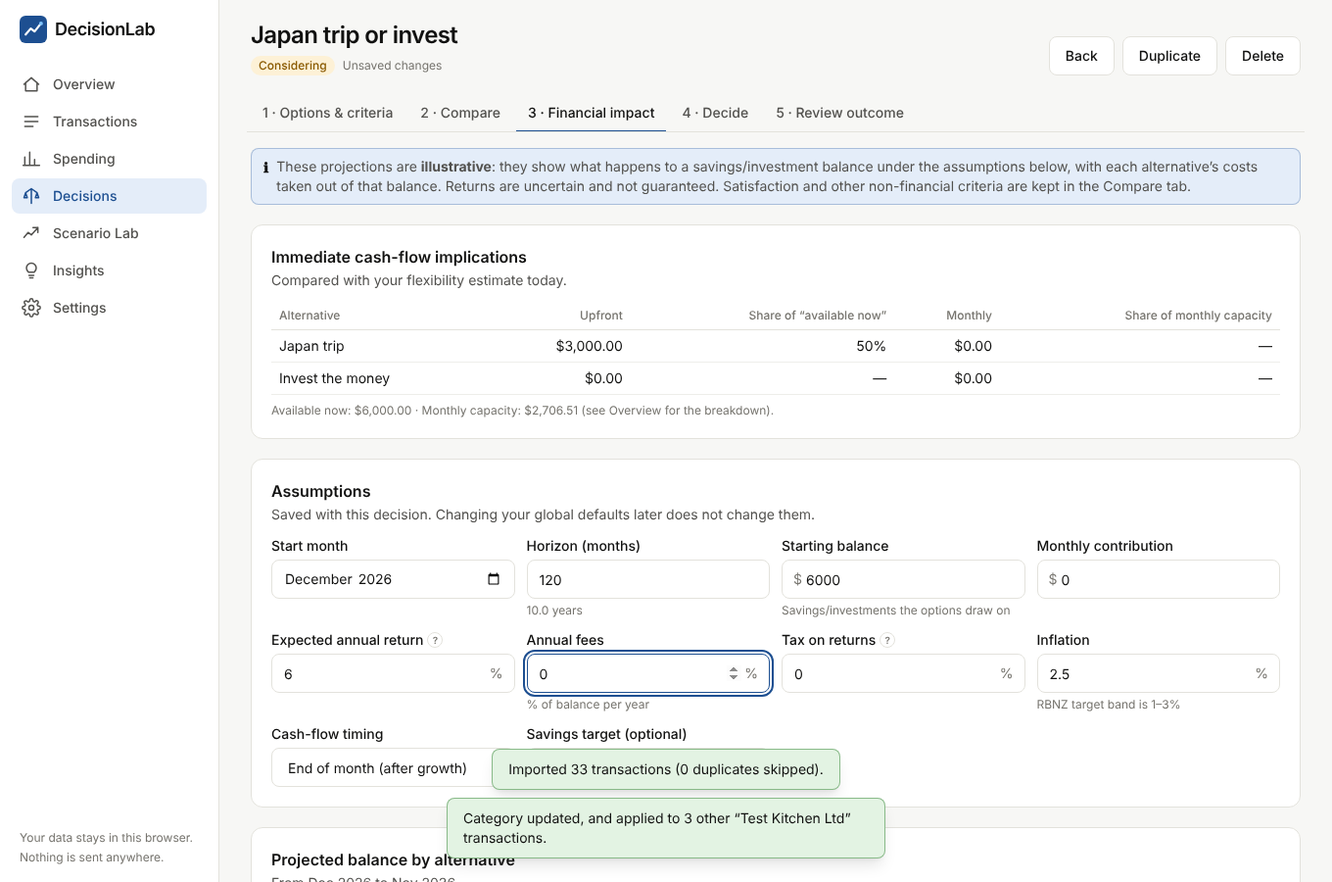
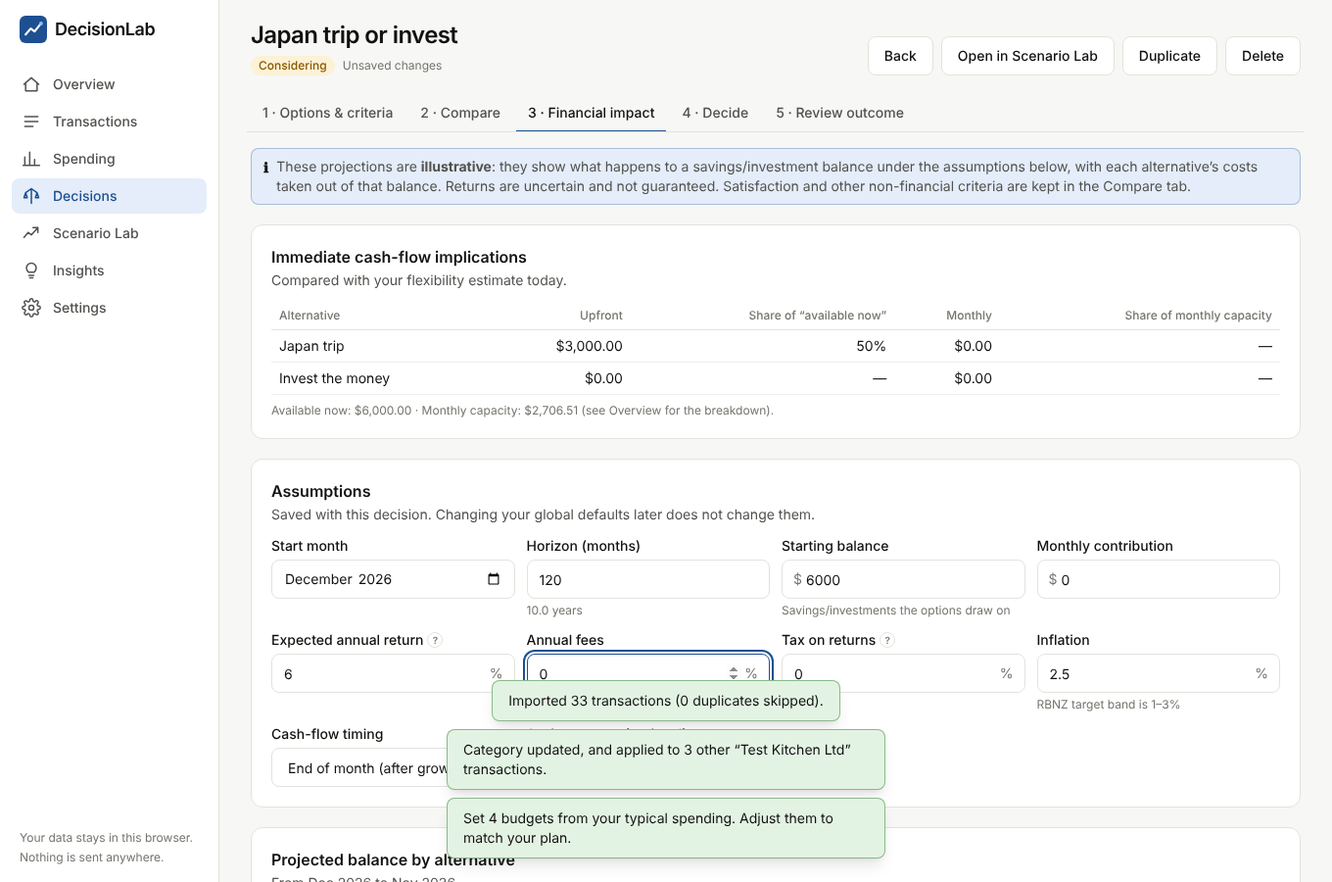
Extend end-to-end test and document milestone 3
- E2E covers budgets, AHP weighting and the Scenario Lab/decision round trip (20 steps)
- Docs: budgets, AHP, total-cost definition, goals, schema v3, reminders privacy note
- Backlog: next milestone "Real-world data"

Changed region(s): [[0.3088, 0.7467, 0.6794, 0.9644], [0.7103, 0.0622, 0.8338, 0.0933], [0.6485, 0.0622, 0.6794, 0.0933]]

diff --git a/src/ui/definitions.ts b/src/ui/definitions.ts
@@ -25,5 +25,5 @@ export const DEFINITIONS = {
   mcDifference:
     'For each simulated path, both alternatives experience the same market returns, so the difference isolates the effect of the decision itself. Percentiles are taken across paths.',
   budget:
-    'Your planned monthly spending per category (entered by you). Actual spending is net of refunds and counts split parts in their own categories. In the current month, “ahead of pace” means spending is more than 10% above an even spread across the month.',
+    'Your planned monthly spending per category (entered by you). Actual spending is net of refunds and counts split parts in their own categories. In the current month, “ahead of pace” means spending is more than 10% above an even spread across the month. Categories paid as one bill (rent, power) can look ahead of pace early in the month.',
 } as const;

diff --git a/README.md b/README.md
@@ -8,8 +8,8 @@ DecisionLab combines three connected tools:
 
 | Module | What it does |
 | --- | --- |
-| **SpendLens** | Import bank CSVs, categorise transactions with rules, analyse cash flow, spending, recurring payments and how much you can realistically spend. |
-| **ChoiceLedger** | Structure decisions: alternatives, weighted criteria, a transparent score, sensitivity to your weights, a frozen record of your reasoning, and later outcome reviews. |
+| **SpendLens** | Import bank CSVs, categorise transactions with rules, analyse cash flow, spending, recurring payments and budgets, and estimate how much you can realistically spend. |
+| **ChoiceLedger** | Structure decisions: alternatives, weighted criteria (direct or by pairwise comparison), a transparent score, a cost-vs-preference chart, sensitivity to your weights, a frozen record of your reasoning, and later outcome reviews. |
 | **FutureRegret** | Deterministic projections (compound growth, contributions, fees, tax, inflation) and optional Monte Carlo ranges to compare the financial consequences of alternatives, with sensitivity analysis. |
 
 All data stays in your browser (IndexedDB). There is no server, account, analytics or tracking.
@@ -34,7 +34,7 @@ Open the printed URL (usually http://localhost:5173). On first launch, either **
 
 | Command | Purpose |
 | --- | --- |
-| `npm test` | Unit and data-layer tests (Vitest, 132 tests) |
+| `npm test` | Unit and data-layer tests (Vitest, 147 tests) |
 | `npm run typecheck` | TypeScript strict type check |
 | `npm run build` | Type check + production build into `dist/` |
 | `npm run preview` | Serve the production build locally (enables offline/PWA support) |
@@ -46,12 +46,13 @@ The production build is a static site: you can serve `dist/` from any static hos
 
 1. **Import transactions** (Transactions → Import CSV). Choose the file and account, confirm the suggested column mapping (date format, signed amount or debit/credit columns, description columns), review the preview (new / duplicate / error rows), then import. Every import can be undone from *Import history*. The original CSV values are kept on each transaction for auditing.
 2. **Categorise.** Default rules cover common NZ merchants. Change a category in the table and, with “apply to the same merchant” ticked, DecisionLab remembers it. Manual choices are never overwritten. Manage rules (order, enable/disable, regex) under *Categorisation rules*. Mark transfers between your accounts as **Transfers** so they are not counted as spending or income. Open a transaction to **split** it across categories, add notes, or link it to a decision; use **Add transaction** for cash.
-3. **Analyse** (Spending). Monthly cash flow, spending by category, trends, period comparisons (a month vs the previous three, or any two date ranges), recurring payments and unusually large transactions, all from complete calendar months.
-4. **Set your plan** (Settings). Enter account balances, an emergency reserve, savings commitment, upcoming expenses and goals. The Overview then shows **money available now** and **monthly discretionary capacity**, with each line marked *Known*, *Estimated* or *Manual*.
-5. **Make a decision** (Decisions → New decision). Add alternatives with upfront/ongoing costs, criteria with weights, and scores. *Compare* shows the transparent weighted score and whether the ranking is fragile. *Financial impact* projects each alternative’s effect on your savings, with opportunity cost, a sensitivity (tornado) analysis and optional **Monte Carlo** ranges for uncertain returns. *Decide* records your choice, reasoning, predicted satisfaction and review date as an immutable snapshot.
+3. **Analyse** (Spending). Budgets (start from your typical spending, then see each month whether you are on pace), monthly cash flow, spending by category, trends, period comparisons (a month vs the previous three, or any two date ranges), recurring payments and unusually large transactions, all from complete calendar months.
+4. **Set your plan** (Settings). Enter account balances, an emergency reserve, savings commitment, upcoming expenses and goals (a goal can track an account's balance). The Overview then shows **money available now** and **monthly discretionary capacity**, with each line marked *Known*, *Estimated* or *Manual*.
+5. **Make a decision** (Decisions → New decision). Add alternatives with upfront/ongoing costs, criteria with weights (or *Compare in pairs…* to derive them), and scores. *Compare* shows the transparent weighted score and whether the ranking is fragile. *Financial impact* projects each alternative’s effect on your savings, with opportunity cost, a sensitivity (tornado) analysis and optional **Monte Carlo** ranges for uncertain returns. *Decide* records your choice, reasoning, predicted satisfaction and review date as an immutable snapshot.
 6. **Review outcomes** when the review date arrives (shown on the Overview). Link the real payments so the actual cost is measured from your data, then record what actually happened; DecisionLab compares prediction with reality. *Insights* summarises calibration across decisions — always with sample sizes.
-7. **Explore** freely in the *Scenario Lab* (spend vs invest, buy now vs later, savings-rate changes, recurring costs, working fewer hours).
-8. **Back up** regularly (Settings → Data & privacy). Encrypted backups use AES-256-GCM with a passphrase.
+7. **Explore** freely in the *Scenario Lab* (spend vs invest, buy now vs later, savings-rate changes, recurring costs, working fewer hours). Turn a scenario into a decision with one click, or open a decision's alternatives in the Lab. Use a goal as the target to see whether it is reached in time.
+8. **Reminders**: the Decisions menu shows how many reviews are due; optionally turn on a daily reminder notification (Settings → Reminders & appearance).
+9. **Back up** regularly (Settings → Data & privacy). Encrypted backups use AES-256-GCM with a passphrase.
 
 ## Screenshots
 

diff --git a/docs/DATA_MODEL.md b/docs/DATA_MODEL.md
@@ -1,6 +1,6 @@
 # Data model
 
-Source of truth: [`src/domain/types.ts`](../src/domain/types.ts). Storage: IndexedDB database `decisionlab`, defined in [`src/data/db.ts`](../src/data/db.ts) (schema version 2).
+Source of truth: [`src/domain/types.ts`](../src/domain/types.ts). Storage: IndexedDB database `decisionlab`, defined in [`src/data/db.ts`](../src/data/db.ts) (schema version 3).
 
 ## Conventions
 
@@ -19,6 +19,9 @@ erDiagram
   CATEGORY ||--o{ TRANSACTION : classifies
   CATEGORY ||--o{ CATEGORY_RULE : "target of"
   CATEGORY ||--o{ MERCHANT_MEMORY : "remembered as"
+  CATEGORY ||--o| BUDGET : "planned by"
+  GOAL }o--o| ACCOUNT : "tracked by"
+  TRANSACTION }o--o| DECISION : "actual cost of"
   DECISION ||--|{ DECISION_OPTION : has
   DECISION ||--o{ CRITERION : has
   DECISION ||--o| DECISION_SNAPSHOT : "frozen at choice"
@@ -37,10 +40,11 @@ erDiagram
 | `merchantMemory` | `merchant` | `MerchantMemory` | Learned from manual corrections; outranks rules |
 | `imports` | `id`, `accountId`, `importedAt` | `ImportBatch` | Mapping used, counts, date range; `status: active/undone` (kept after undo for history) |
 | `importProfiles` | `id` | `ImportProfile` | Saved CSV column mappings |
-| `goals` | `id` | `Goal` | `earmarked` amounts are excluded from available funds |
+| `goals` | `id` | `Goal` | `earmarked` amounts are excluded from available funds; optional `accountId` uses that account's balance as the saved amount |
 | `decisions` | `id`, `status`, `date`, `reviewDate`, `updatedAt` | `Decision` | Embeds options, criteria, score matrix, its own `ProjectionAssumptions`, `snapshot`, `snapshotHistory`, `review` |
 | `scenarioSets` | `id`, `updatedAt` | `ScenarioSet` | Base assumptions + variants (one-off and recurring flows, contribution change) + optional `monteCarlo` config |
-| `settings` | `key` | key–value | `financialProfile`, `defaultAssumptions`, `seeded`, `dismissedRecurring` |
+| `settings` | `key` | key–value | `financialProfile`, `defaultAssumptions`, `seeded`, `dismissedRecurring`, `reviewReminders` |
+| `budgets` | `categoryId` | `Budget` | `monthlyAmount` (cents) per expense category |
 
 UI-only preferences (theme) are kept in `localStorage`, never financial data.
 
@@ -63,9 +67,10 @@ UI-only preferences (theme) are kept in `localStorage`, never financial data.
 
 ### Decision
 
-- `options[]`: `name`, `upfrontCost` (cents, positive = cost), `costMonth`, `monthlyCost` (may be negative for savings), `monthlyCostMonths`, `expectedBenefits`, `risks`.
+- `options[]`: `name`, `upfrontCost` (cents, positive = cost), `costMonth`, `monthlyCost` (may be negative for savings), `monthlyCostMonths`, `expectedBenefits`, `risks`, optional `extraFlows` (one-offs, recurring flows and contribution change, e.g. from a Scenario Lab variant).
 - `criteria[]`: `name`, `type` (`rating` 0–10 or `measure`), `direction` (higher/lower is better), `weight` (relative), `unit`.
 - `scores[optionId][criterionId]`: number or null.
+- `pairwise?`: AHP judgements keyed `"criterionA|criterionB"` (value of A relative to B, 1/9 … 9).
 - `assumptions`: the decision's own copy of projection assumptions (not a reference to global defaults).
 - `monteCarlo?`: `{enabled, annualVolatility, runs, seed}` for the optional uncertainty simulation.
 - `selectedOptionId`, `reasoning`, `predictedSatisfaction` (1–10), `confidence` (1–5), `reviewDate`.
@@ -77,11 +82,11 @@ Status lifecycle: `considering → decided → completed (optional) → reviewed
 
 ### ProjectionAssumptions
 
-`startMonth`, `horizonMonths`, `initialBalance`, `monthlyContribution`, `timing` (`start`/`end`), `annualReturn`, `annualFee`, `taxRateOnReturns`, `annualInflation`, optional `targetAmount`. See [CALCULATIONS.md](CALCULATIONS.md).
+`startMonth`, `horizonMonths`, `initialBalance`, `monthlyContribution`, `timing` (`start`/`end`), `annualReturn`, `annualFee`, `taxRateOnReturns`, `annualInflation`, optional `targetAmount` and `goalId`. See [CALCULATIONS.md](CALCULATIONS.md).
 
 ## Backups
 
-Format `decisionlab-backup` version 2 (version 1 files are migrated on restore): `{ format, version, exportedAt, data: { <table>: rows[] } }`. Encrypted backups (`decisionlab-encrypted-backup`) wrap the same JSON: `{ kdf: {PBKDF2, SHA-256, iterations, salt}, cipher: {AES-GCM, iv}, ciphertext }` (base64).
+Format `decisionlab-backup` version 3 (versions 1 and 2 are migrated on restore): `{ format, version, exportedAt, data: { <table>: rows[] } }`. Encrypted backups (`decisionlab-encrypted-backup`) wrap the same JSON: `{ kdf: {PBKDF2, SHA-256, iterations, salt}, cipher: {AES-GCM, iv}, ciphertext }` (base64).
 
 Restore: parse → `migrateBackup` (rejects unknown/newer formats) → zod validation of every row → replace all tables in a single IndexedDB transaction.
 
@@ -91,6 +96,7 @@ Restore: parse → `migrateBackup` (rejects unknown/newer formats) → zod valid
 | --- | --- | --- |
 | 1 | Initial schema | — |
 | 2 | `transactions.decisionId` index; optional `splits`, `decisionId`, `monteCarlo`, `actualCostSource` fields | None needed (new fields are optional). Backups v1 → v2 unchanged. |
+| 3 | New `budgets` table; optional `pairwise`, `extraFlows`, `goalId`, goal `accountId` | None needed. Backups v2 → v3: empty budgets table. |
 
 ## Migrations
 

diff --git a/docs/CALCULATIONS.md b/docs/CALCULATIONS.md
@@ -54,6 +54,15 @@ Group by (merchant key, direction); same-day payments are summed. Requires ≥ 3
 
 Provenance: balances, reserve, upcoming expenses, goals, commitment and overrides are *Manual*; income/obligation/essential estimates are *Estimated*.
 
+## Budgets (`src/engine/budgets.ts`)
+
+- A budget is a manual monthly amount for an **expense** category (transfers, savings and income cannot be budgeted).
+- Actual = net spending in that category for the calendar month (refunds reduce it; split parts count in their own categories).
+- Elapsed share = day of month ÷ days in month for the current month; 1 for past months.
+- Status: **over** if actual > budget; **ahead of pace** if, in the current month, actual > budget × elapsed × 1.1; otherwise **on track**. Bills paid once a month can look ahead of pace early in the month.
+- Suggested budget = median monthly net spending over the last three complete months, rounded **up** to the next $10.
+- In the flexibility estimate, *planned in discretionary budgets* = Σ budgets of non-essential categories; *not yet allocated* = monthly capacity − that sum (a warning appears if negative). Budgets do not change the capacity estimate itself.
+
 ## Decision scoring (`src/engine/scoring.ts`)
 
 1. Weights normalised: wᵢ = rawᵢ / Σ raw (all zero → equal weights).
@@ -64,6 +73,8 @@ Provenance: balances, reserve, upcoming expenses, goals, commitment and override
 4. **Pareto efficiency**: an option is *dominated* if another has a score ≥ and total cost ≤ with at least one strict.
 
 **Weight sensitivity** — for each criterion, its weight share w is varied over [0,1] (steps of 0.005) with other weights scaled proportionally by (1 − w). Reported: the stable range where the leader stays first and the smallest shift that changes the leader.
+**Pairwise weights (AHP, `src/engine/ahp.ts`)** — optional. For each pair of criteria the user gives a Saaty judgement (1 = equal … 9 = extremely more important; reciprocal for the reverse). Weights = normalised geometric means of the rows of the reciprocal matrix. Consistency: λmax = mean((A·w)ᵢ / wᵢ), CI = (λmax − n)/(n − 1), CR = CI / RI(n) with Saaty's random indices (n = 3: 0.58, 4: 0.90, 5: 1.12, …). CR ≤ 0.10 is acceptable; above it the UI asks the user to revisit contradictory judgements. Applied weights are stored as percentages (one decimal), and the judgements are kept on the decision.
+
 **Fragile ranking** warning when the top-two margin is < 5 points or any single-weight shift ≤ 15 percentage points changes the leader. The leader under equal weights is also compared.
 
 With two options, min–max normalisation of a measured criterion always yields 0 vs 1; the UI warns about this.
@@ -82,7 +93,11 @@ Monthly time step; month 0 = `startMonth`; balances are reported at the **end** 
 - **Tax** is a simplification: a flat rate on each month's return, with losses producing a credit (approximates NZ PIE taxation at your PIR, where fund losses generate tax credits; does not model FIF rules or KiwiSaver specifics). Taxing only gains would create an artificial drag under volatile returns. Set 0% for pre-tax results.
 - Validated against the closed-form future value of an annuity in tests (start and end timing).
 
-**Decision alternatives → cash flows**: upfront cost becomes a one-off of −cost in `costMonth`; monthly cost becomes a recurring flow of −cost from `costMonth` for `monthlyCostMonths` (or to the horizon). **Total cost** = undiscounted sum within the horizon.
+**Decision alternatives → cash flows**: upfront cost becomes a one-off of −cost in `costMonth`; monthly cost becomes a recurring flow of −cost from `costMonth` for `monthlyCostMonths` (or to the horizon). Alternatives created from a Scenario Lab variant may also carry *extra flows* (any one-offs, recurring flows and a contribution change), so the projection is identical to the variant's.
+
+**Total cost** = −(sum of the alternative's cash flows within the horizon), undiscounted: money out is cost and money in (e.g. resale) reduces it. Inflation-indexed flows grow at the inflation assumption. Contribution changes are saving decisions, not costs, and are excluded.
+
+**Goals as targets**: choosing a goal sets the projection target to the goal amount. If the goal has a target date, a badge shows whether the balance reaches the target by the end of that month. Goals can track an account's manual balance as their saved amount.
 
 **Opportunity cost** = final real balance of an alternative − the best alternative's final real balance.
 

diff --git a/docs/STATUS.md b/docs/STATUS.md
@@ -1,6 +1,6 @@
 # Implementation status
 
-Last updated: November 2026 — milestone 1 (foundation + vertical slice) and milestone 2 (“Uncertainty and reality”: Monte Carlo, linked actual costs, manual and split transactions, custom period comparison).
+Last updated: November 2026 — milestone 1 (foundation + vertical slice) milestone 2 (“Uncertainty and reality”) and milestone 3 (“Decide with less friction”: budgets, pairwise weighting, cost-vs-preference chart, Scenario Lab ↔ decisions, goal targets, review reminders).
 
 Legend: ✅ implemented and tested · 🟡 partial · ⬜ planned
 
@@ -14,7 +14,7 @@ Legend: ✅ implemented and tested · 🟡 partial · ⬜ planned
 | Local persistence (Dexie/IndexedDB) | ✅ | Versioned schema, persistent-storage request |
 | Shared domain models | ✅ | `src/domain/types.ts` |
 | Synthetic demonstration dataset | ✅ | Seeded, loaded through the real import pipeline, labelled, removable |
-| Testing infrastructure | ✅ | Vitest (132 tests) + Playwright E2E (17 steps) |
+| Testing infrastructure | ✅ | Vitest (147 tests) + Playwright E2E (20 steps) |
 | Export/import (backup/restore), encrypted backup | ✅ | zod-validated, AES-GCM |
 | PWA / offline | 🟡 | Manifest + service worker caching the app shell; install prompt UX not customised |
 
@@ -38,7 +38,8 @@ Legend: ✅ implemented and tested · 🟡 partial · ⬜ planned
 | Recurring payments | ✅ | Dismissable; editing a detected series ⬜ |
 | Spending anomalies | ✅ | Robust z-score |
 | Period comparison | ✅ | Month vs previous 3 months, or any two custom date ranges |
-| Financial flexibility with provenance | ✅ | |
+| Financial flexibility with provenance | ✅ | Shows discretionary budgets and unallocated capacity |
+| Category budgets with variance tracking | ✅ | Pace-aware status, suggestions from median spending |
 
 ## Phase 3 — ChoiceLedger
 
@@ -48,8 +49,8 @@ Legend: ✅ implemented and tested · 🟡 partial · ⬜ planned
 | Alternatives with costs, criteria with weights and direction | ✅ | |
 | Weighted scoring with normalisation and full breakdown | ✅ | |
 | Weight sensitivity and fragility warning | ✅ | |
-| Cost–benefit (Pareto) indicator | ✅ | Scatter chart ⬜ |
-| Pairwise comparison (AHP) for weights | ⬜ | Backlog |
+| Cost–benefit (Pareto) indicator and cost-vs-preference chart | ✅ | |
+| Pairwise comparison (AHP) for weights | ✅ | Consistency ratio; judgements stored on the decision |
 | Decision journal with search/filter | ✅ | |
 | Immutable snapshots, snapshot history on reopen | ✅ | |
 | Outcome reviews with predicted vs actual | ✅ | |
@@ -62,7 +63,7 @@ Legend: ✅ implemented and tested · 🟡 partial · ⬜ planned
 | Scenario builder with templates and editable variants | ✅ | 5 templates |
 | Compound growth, contributions, timing, fees, tax, inflation, nominal/real | ✅ | Closed-form tested |
 | One-off and recurring flows (incl. inflation-indexed) | ✅ | |
-| Goal progress (target reached month) | ✅ | Linked to Goals entity ⬜ |
+| Goal progress (target reached month) | ✅ | Goals can be the target; date check badge; goals can track an account |
 | Opportunity-cost comparison | ✅ | |
 | Sensitivity (tornado) | ✅ | |
 | Charts comparing scenarios | ✅ | With table view |
@@ -77,7 +78,8 @@ Legend: ✅ implemented and tested · 🟡 partial · ⬜ planned
 | Snapshot stores assumptions, projections and available funds | ✅ |
 | Review dates surface on Overview | ✅ |
 | Link a decision to actual transactions (actual cost from matched spending) | ✅ |
-| Create a decision from a Scenario Lab set (and vice versa) | ⬜ |
+| Create a decision from a Scenario Lab set (and vice versa) | ✅ |
+| Review reminders (nav badge, opt-in notifications on open) | ✅ |
 
 ## Phase 6 — Advanced
 

diff --git a/docs/BACKLOG.md b/docs/BACKLOG.md
@@ -6,29 +6,30 @@ Ordered by value to the core loop (understand → decide → simulate → learn)
 
 Monte Carlo simulation (Web Worker, seeded, common random numbers), linking transactions to decisions for measured actual costs, manual transactions, split transactions, custom period comparison.
 
-## Next milestone (recommended): “Decide with less friction”
+## Done in milestone 3 (“Decide with less friction”)
 
-1. **Category budgets / targets** with variance tracking per month, feeding monthly capacity (planned vs actual discretionary spending).
-2. **Cost–benefit scatter** (score vs total cost) with the Pareto frontier, and **pairwise (AHP) weighting** with a consistency ratio as an alternative to direct weights.
-3. **Create a decision from a Scenario Lab set** (and open a decision’s alternatives in the Lab).
-4. **Goals linked to projections**: pick a Goal as the target; progress from an account balance.
-5. **Review reminders** in the installed PWA (local notifications), and a “due for review” badge in navigation.
+Category budgets with pace tracking and suggestions, budgets in the flexibility estimate, AHP pairwise weighting with consistency ratio, cost-vs-preference chart with Pareto frontier, Scenario Lab ↔ decision conversion, goals as projection targets (with date check and account tracking), due-review badge and opt-in reminders.
+
+## Next milestone (recommended): “Real-world data”
+
+1. **Bank-specific CSV presets** for ANZ, ASB, BNZ, Westpac and Kiwibank, verified against real (anonymised) exports — the biggest remaining source of friction.
+2. **Opening-balance reconstruction** from a statement balance column: account balance history and an automatically *known* current balance (instead of manual).
+3. **Edit recurring series**: confirm, rename, set expected amount; an upcoming-bills calendar feeding “upcoming expenses”.
+4. **Budget-aware pace for bills**: treat categories dominated by recurring payments as lump-sum (expected on their due date) rather than evenly spread.
+5. **Component tests** for the import wizard and decision editor, plus an axe accessibility audit.
 
 ## Then
 
 6. Monte Carlo extensions: historical bootstrap of returns, fat-tailed (Student-t) returns, uncertain inflation, sequence-of-returns stress tests.
 7. Criterion-level preference insights: which criteria you weight highly vs which predicted satisfaction (needs ≥ 10 reviews).
-8. Edit recurring series (confirm, rename, set expected amount), and upcoming-bill calendar.
-9. Bank-specific CSV presets for major NZ banks (ANZ, ASB, BNZ, Westpac, Kiwibank) once verified against real exports — profiles are already supported.
-10. Opening-balance reconstruction from a statement balance column to show account balance history.
 
 ## Later / optional
 
-11. Optional automatic encrypted backups to a user-chosen folder (File System Access API on desktop).
-12. Optional local passphrase lock with encryption at rest (requires key management UX; current guidance relies on device security).
-13. Optional sync between devices (end-to-end encrypted, explicit opt-in).
-14. Desktop packaging (Tauri) with SQLite storage.
-15. Akahu (NZ open banking) integration — explicit consent, documented data flows; only if manual CSV becomes a real burden.
+8. Optional automatic encrypted backups to a user-chosen folder (File System Access API on desktop).
+9. Optional local passphrase lock with encryption at rest (requires key management UX; current guidance relies on device security).
+10. Optional sync between devices (end-to-end encrypted, explicit opt-in).
+11. Desktop packaging (Tauri) with SQLite storage.
+12. Akahu (NZ open banking) integration — explicit consent, documented data flows; only if manual CSV becomes a real burden.
 
 ## Technical debt / quality
 

diff --git a/docs/ARCHITECTURE.md b/docs/ARCHITECTURE.md
@@ -44,9 +44,13 @@ flowchart TD
   CF --> FX[Flexibility estimate<br/>available now · monthly capacity]
   RC --> FX
   P[Profile, balances, goals<br/>manual inputs] --> FX
+  B[Category budgets] --> FX
+  B -->|pace vs actual| CF
   FX -->|prefills starting balance &<br/>savings in new decisions| D[Decision]
   FX -->|share of available funds| D
-  D --> S[MCDA score + weight sensitivity]
+  D --> S[MCDA score + weight sensitivity<br/>direct or AHP pairwise weights]
+  SL[Scenario Lab set] <-->|convert| D
+  G[Goal] -->|target + date| PR
   D --> PR[Projection per option<br/>option costs → scenario flows]
   PR --> TS[Tornado sensitivity]
   PR --> MC[Monte Carlo ranges<br/>same month step]
@@ -63,6 +67,7 @@ Key shared interfaces:
 
 - **`optionToVariant(option)`** (engine/projection) turns a decision alternative's upfront and monthly costs into scenario cash flows, so decisions and the Scenario Lab use one projection engine.
 - **`estimateFlexibility(...)`** (engine/flexibility) is used by the Overview, decision financial tab and snapshot.
+- **`variantToOption` / `scenarioFromDecision`** convert between Scenario Lab variants and decision alternatives without changing projections (tested).
 - **`DecisionSnapshot`** freezes options, criteria, scores, ranking, assumptions, projected financials, available funds and predictions when a choice is recorded.
 
 ## Technology choices

diff --git a/docs/PRIVACY.md b/docs/PRIVACY.md
@@ -14,6 +14,7 @@ DecisionLab holds sensitive personal financial data, so privacy is a core design
 - No server, no account, no authentication (none is needed for a strictly local app).
 - No analytics, telemetry, error reporting, third-party scripts or web fonts. The production build ships a strict Content-Security-Policy (`connect-src 'self'`, `script-src 'self'`), so even a compromised dependency could not send data to another origin from the page.
 - Links you store in decisions are plain text; DecisionLab never fetches them.
+- Review reminders are opt-in local notifications created by the page itself (no push service). Their text only says how many decisions are due — never amounts or titles — because notifications can appear on a lock screen.
 - The app does not log transaction data to the browser console.
 - Any future external integration (bank feeds, sync) must be opt-in with explicit consent and documented here first.
 
